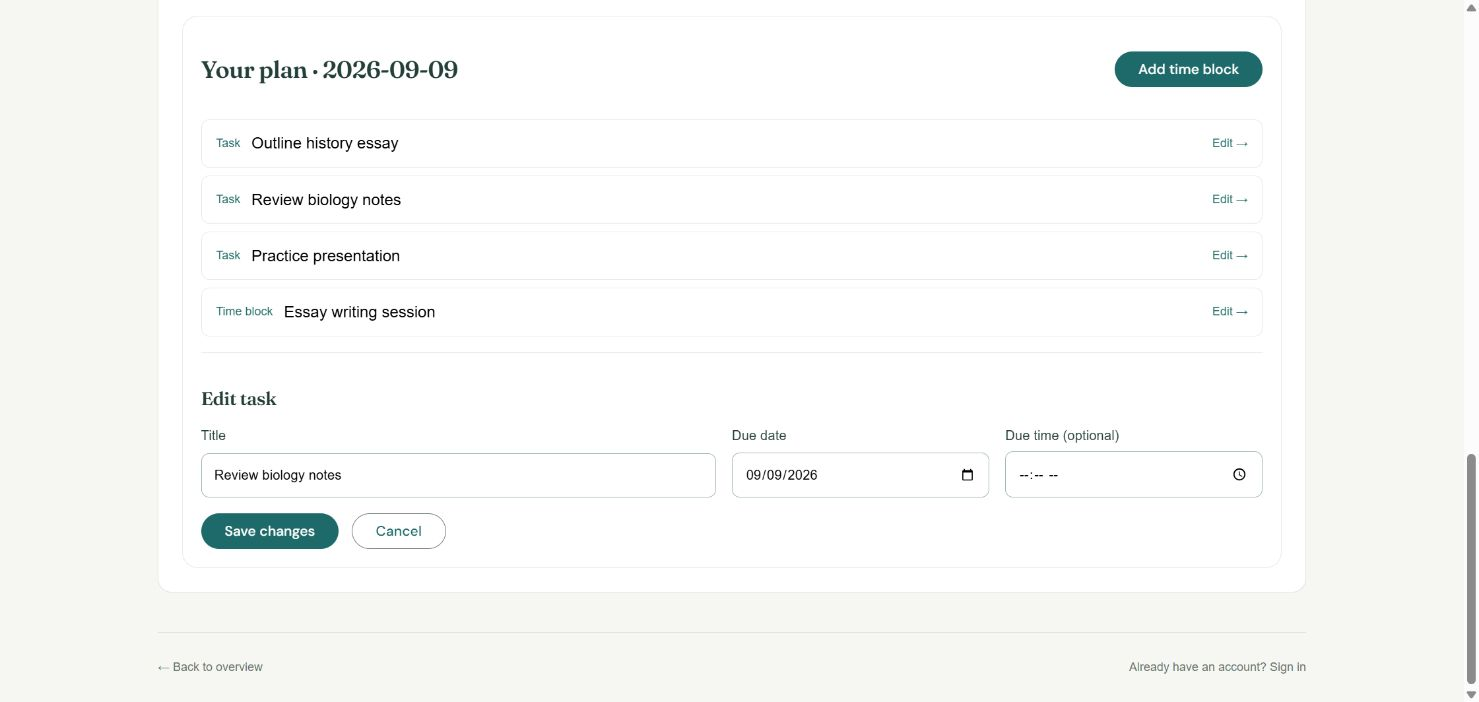
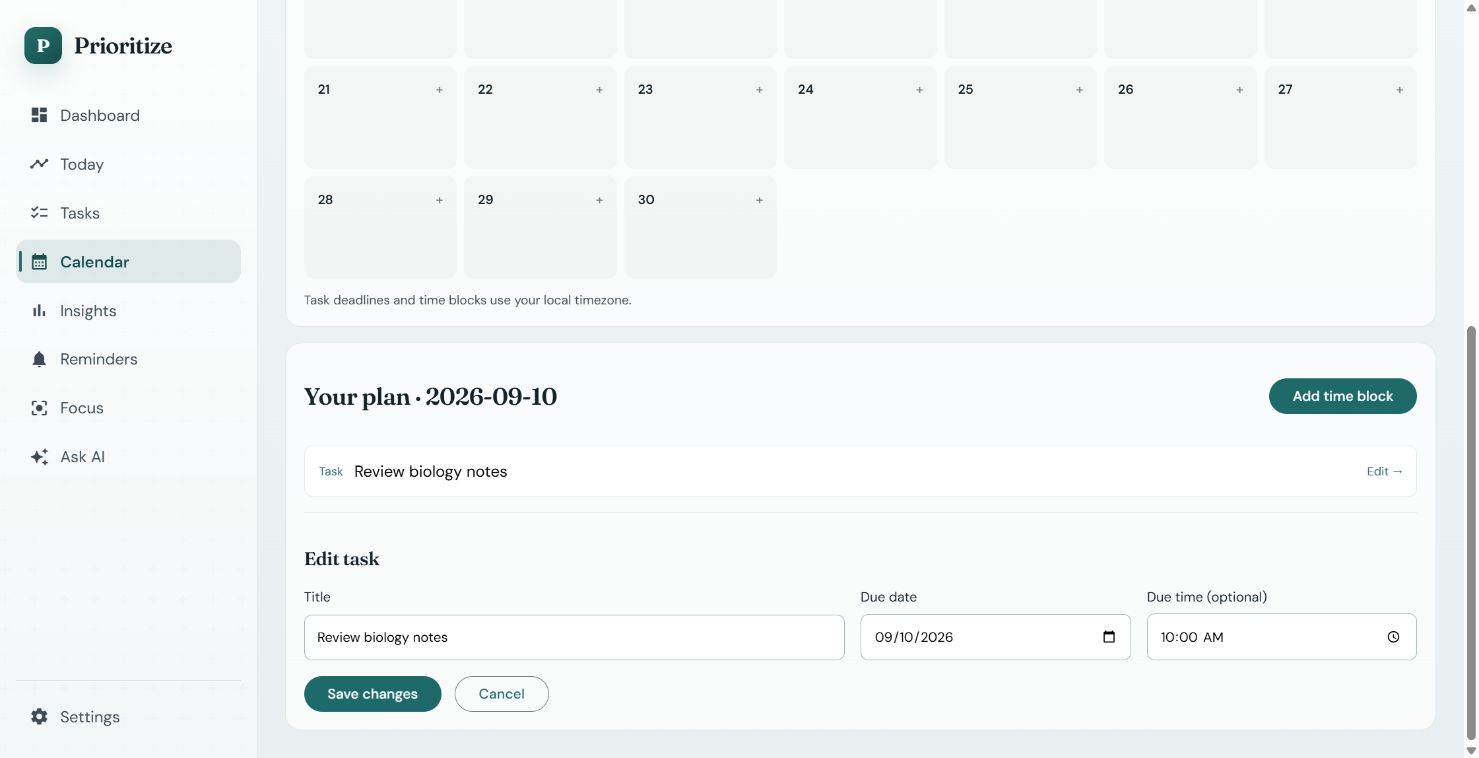
Remove public demo from default README and refresh screenshots

diff --git a/README.md b/README.md
@@ -6,21 +6,15 @@ Personal productivity and planning platform. Organize work as Goals → Projects
 
 **Live app:** [theprioritize.com](https://theprioritize.com/)
 
-**Try it without an account:** [interactive demo](https://theprioritize.com/demo) · **Current release:** [main branch](https://github.com/shivaak67/prioritize/tree/main)
+**Current release:** [main branch](https://github.com/shivaak67/prioritize/tree/main)
 
-The landing page, dashboard, demo, and calendar captures were refreshed on September 9, 2026. The guided first-session capture uses a local fictional account; demo captures use fictional in-memory data. The existing tasks, Focus, and sign-in captures are from the live app on September 8, 2026.
+The landing page, dashboard, and calendar captures were refreshed on September 9, 2026. The guided first-session and calendar captures use a local fictional account. The existing tasks, Focus, and sign-in captures are from the live app on September 8, 2026.
 
 ### Public overview
 
-Understand the app and explore it before signing in.
+Learn how the app works, then sign in or create an account to plan your own day.
 
 ![Prioritize public landing page](docs/screenshots/landing.png)
-
-### Interactive demo
-
-Try sample tasks, calendar edits, and a Focus timer without creating an account. Changes reset when you leave or reload the demo.
-
-![Prioritize interactive demo with fictional sample tasks](docs/screenshots/demo.png)
 
 ### Guided first session
 
@@ -42,7 +36,7 @@ Create tasks with due dates and priorities, reserve calendar time, and filter ex
 
 ### Calendar
 
-Select a date to add a time block or select an existing task/event to edit it. This capture shows the public demo calendar with fictional data.
+Select a date to add a time block or select an existing task/event to edit it. These captures show the authenticated calendar using a local fictional account.
 
 ![Prioritize monthly calendar](docs/screenshots/calendar.png)
 
@@ -64,7 +58,7 @@ Prioritize helps you plan and execute work with a clear hierarchy: categories an
 ## Features
 
 - Email/password and Google OAuth authentication (JWT)
-- Public landing page and interactive demo with isolated fictional data
+- Public landing page with sign-in and account creation
 - Guided first session: task → calendar time block → Focus
 - Calendar creation and editing with date validation and failed-save recovery
 - Categories, goals, projects, and tasks (manual priority)
@@ -204,7 +198,7 @@ Stop with `Ctrl+C` or `docker compose down`. Add `-v` to also remove the databas
 
 GitHub Actions runs backend tests and the frontend production build on pull requests and pushes to `main` and `develop`. A separate job builds both Docker images to catch Dockerfile regressions. Pushes to `develop` that change application files also publish versioned images to GitHub Container Registry. Deployment selects a versioned image on the existing EC2 host.
 
-Frontend behavior tests run with `npm test -- --watch=false --browsers=ChromeHeadless` from `frontend/`. The September 9 release passed 24 frontend tests, the production build, and browser checks for onboarding, calendar edits, demo isolation, and mobile layout.
+Frontend behavior tests run with `npm test -- --watch=false --browsers=ChromeHeadless` from `frontend/`. The September 9 release passed 22 frontend tests, the production build, and browser checks for onboarding, calendar edits, and mobile layout.
 
 ## Deployment (AWS)
 
